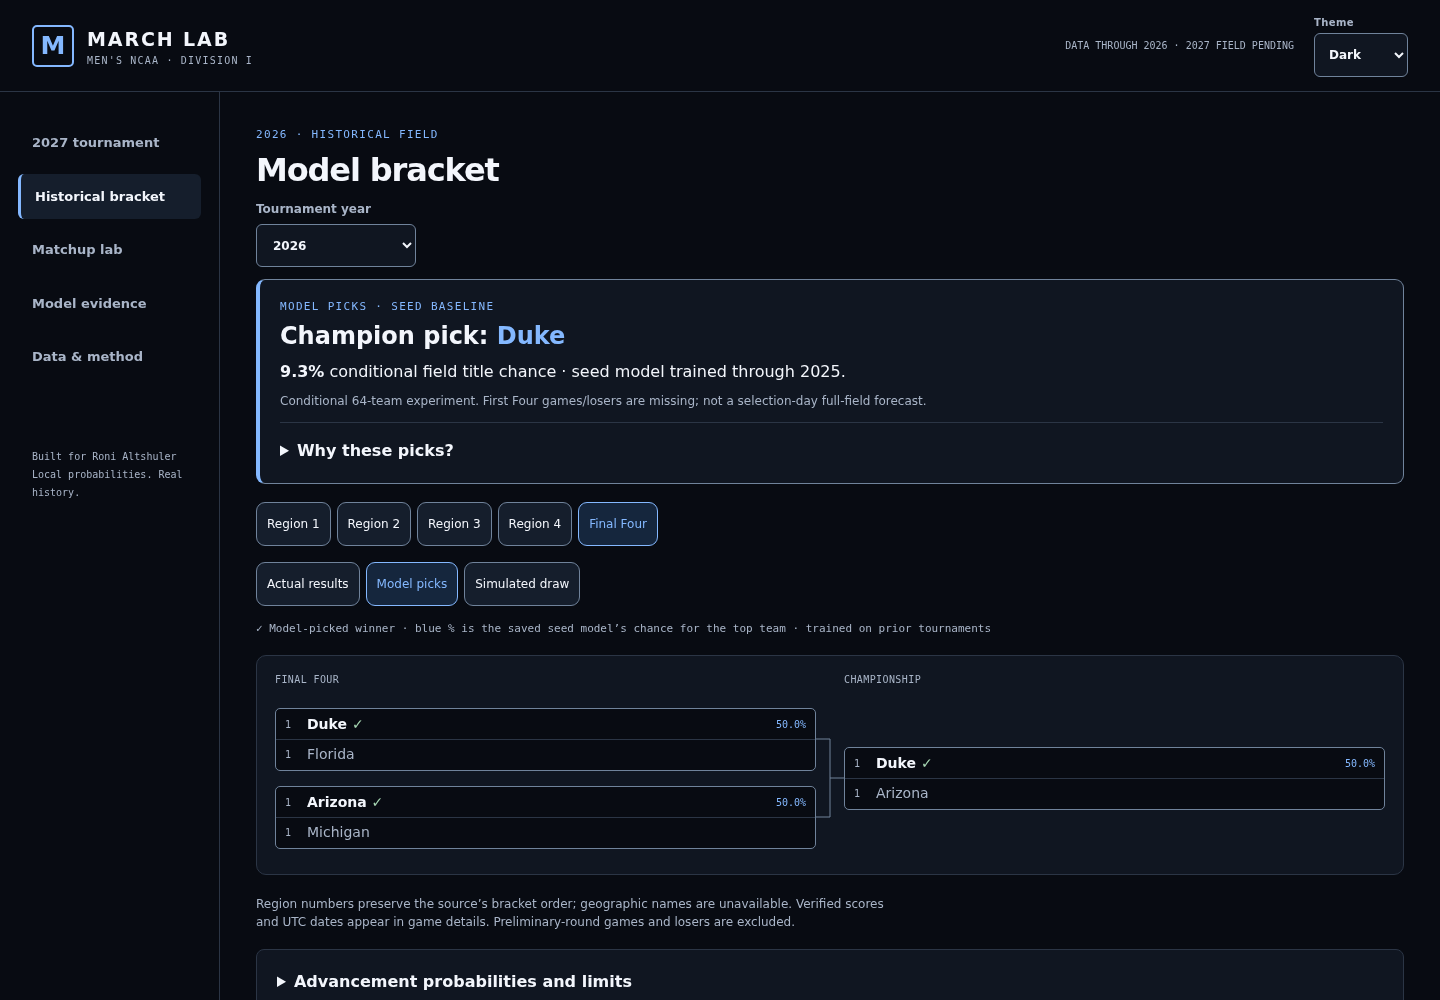
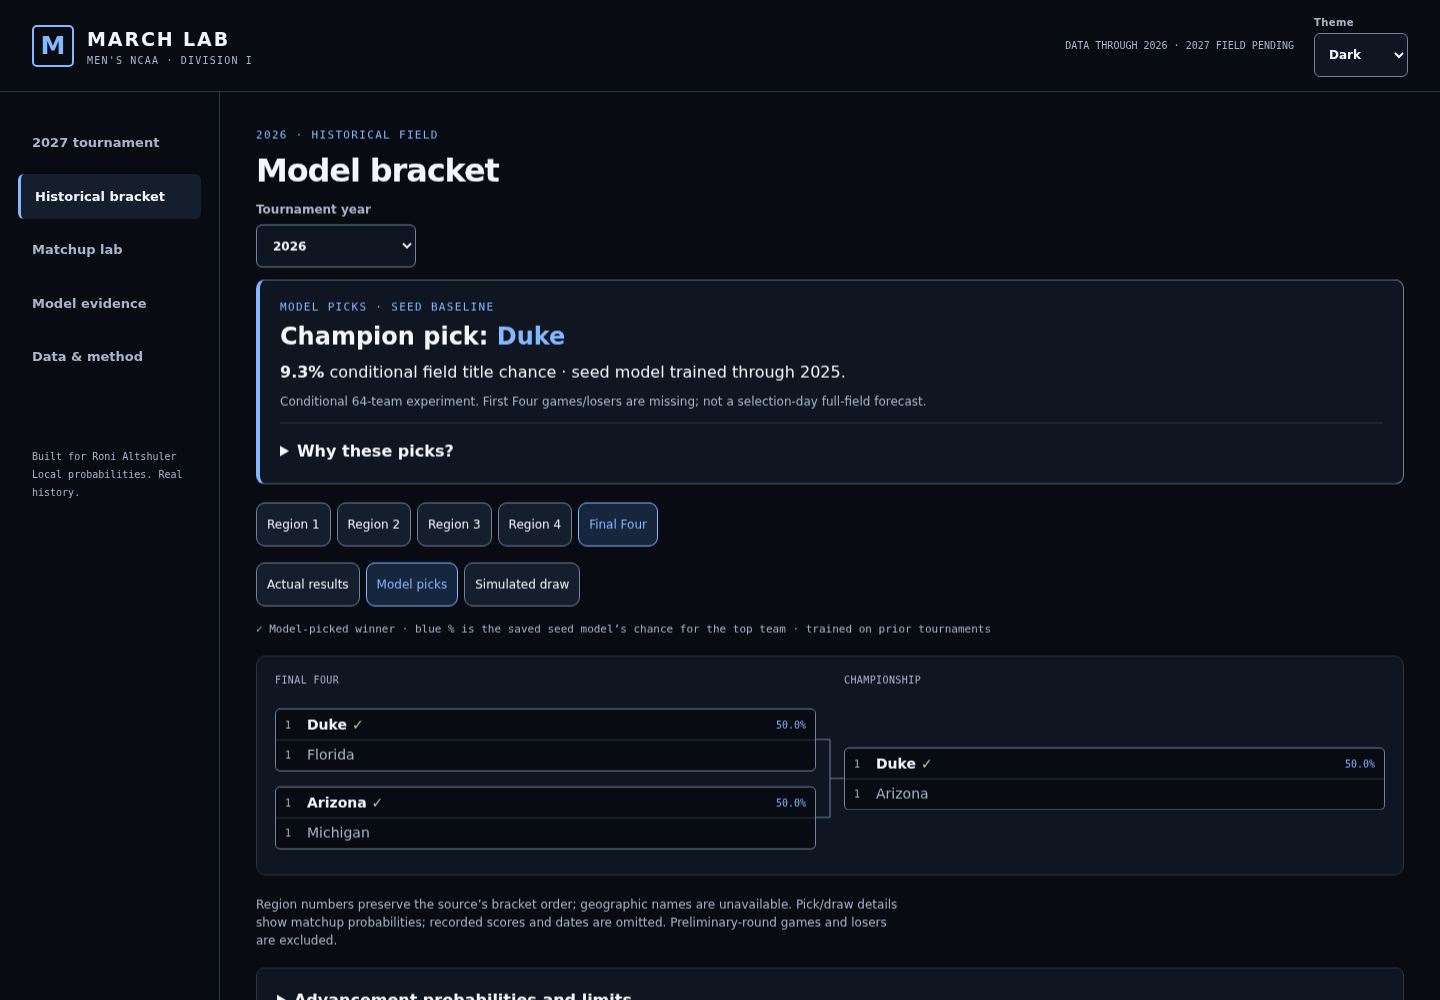
Keep model, draw and observed bracket provenance explicit

diff --git a/web/app.js b/web/app.js
@@ -70,7 +70,7 @@ function drawImported(field,result,index=0,selectedView='recommend',target=$('#i
 function modelBracketSummary(result,teams,local=false){
   const rec=result.recommended,champion=teams.find(t=>t.id===rec.champion),name=champion?.name||rec.champion;
   const label=champion?.profile_id&&!local?`<a href="${esc(teamHref(champion.profile_id,{year,region,view:'recommend',round:archiveRound()}))}">${esc(name)}</a>`:esc(name);
-  return `<section class="model-bracket-summary" aria-label="Model bracket recommendation"><p class="eyebrow">MODEL PICKS · SEED BASELINE</p><h2>Champion pick: ${label}</h2><p><strong>${pct(rec.champion_probability)}</strong> ${local?'declared':'conditional'} field title chance · seed model trained through ${rec.trained_through??'—'}.</p><p class="note">${local?'Local scenario from your supplied field; announcement and input timestamp are not verified.':'Conditional 64-team experiment. First Four games/losers are missing; not a selection-day full-field forecast.'}</p><details><summary>Why these picks?</summary><p>${esc(rec.method)} This coherent favorites path does not optimize a scoring pool or claim a new accuracy result.</p><p class="note">Input: selection-time seeds only. Calibration through ${rec.calibration_through??'—'}. No form statistics, injuries, rosters or market prices are used. The percentage above integrates all possible paths, not the chance every picked game is correct.${local?` Current model artifact as of ${esc(summary.models.as_of)}; earlier imported years remain current-model scenarios.`:''}</p>${local?'':`<a href="#evidence?year=${year}">Read the existing model evidence →</a>`}</details></section>`;
+  return `<section class="model-bracket-summary" aria-label="Model bracket recommendation"><p class="eyebrow">MODEL PICKS · SEED BASELINE</p><h2>Champion pick: ${label}</h2><p><strong>${pct(rec.champion_probability)}</strong> ${local?'declared':'conditional'} field title chance · seed model trained through ${rec.trained_through??'—'}.</p><p class="note">${local?'Local scenario from your supplied field; announcement and input timestamp are not verified.':'Conditional 64-team experiment. First Four games/losers are missing; not a selection-day full-field forecast.'}</p><details><summary>Why these picks?</summary><p>${esc(rec.method)} This coherent favorites path does not optimize a scoring pool or claim a new accuracy result.</p><p class="note">${local?'Input: supplied seeds; their as-of timestamps are unverified.':'Input: selection-time seeds only.'} Calibration through ${rec.calibration_through??'—'}. No form statistics, injuries, rosters or market prices are used. The percentage above integrates all possible paths, not the chance every picked game is correct.${local?` Current model artifact as of ${esc(summary.models.as_of)}; earlier imported years remain current-model scenarios.`:''}</p>${local?'':`<a href="#evidence?year=${year}">Read the existing model evidence →</a>`}</details></section>`;
 }
 function syncArchiveRoute(game=null){history.replaceState(null,'',archiveHref({year,region,view,game,round:archiveRound()}));}
 async function archive({focusGame=null,focusControl=null}={}){
@@ -122,8 +122,8 @@ $('#season-content').innerHTML=`${view==='recommend'?modelBracketSummary(simulat
 <div class="segmented" role="group" aria-label="Bracket region">${[0,1,2,3,4].map(r=>`<button data-region="${r}" aria-pressed="${r===region}">${r===4?'Final Four':`Region ${r+1}`}</button>`).join('')}</div>
 ${simulation?`<div class="segmented" role="group" aria-label="Actual or simulated results"><button data-view="actual" aria-pressed="${view==='actual'}">Actual results</button><button data-view="recommend" aria-pressed="${view==='recommend'}">Model picks</button><button data-view="sample" aria-pressed="${view==='sample'}">Simulated draw</button></div>`:''}
 <p class="bracket-key">${view==='actual'?'✓ Actual winner · blue % is the historical model’s chance for the top team':view==='recommend'?'✓ Model-picked winner · blue % is the saved seed model’s chance for the top team':'✓ Winner in one simulated draw · probabilities use the historical model'} · ${season.model?'trained on prior tournaments':'probabilities unavailable during 1985–1994 warm-up'}</p><label class="mobile-round" for="mobile-round">Round<select id="mobile-round">${groups.map((g,i)=>`<option value="${i}" ${i===archiveRound()-(region===4?5:1)?'selected':''}>${esc(g.round_name)}</option>`).join('')}</select></label>${bracketMarkup(groups,region===4?2:8,season.teams,archiveRound()-(region===4?5:1))}
-<p class="note">Region numbers preserve the source’s bracket order; geographic names are unavailable. ${season.games.some(g=>g.score_a!=null)?'Verified scores and UTC dates appear in game details.':'Scores and dates are missing for this era.'} Preliminary-round games and losers are excluded.${year===2021?' Oregon–VCU was a no-contest; the advancement is shown and excluded from model fitting.':''}</p>
-${simulation?`${view==='recommend'?'<details class="panel"><summary>Advancement probabilities and limits</summary>':'<section class="panel">'}<h2>Advancement probabilities · ${year}</h2><p class="note">Exact probabilities across all possible main-bracket paths. Conditional on the 64 main-bracket participants; this is a historical experiment. ${view==='sample'?'The draw above is one sample.':'The bracket above shows recorded actual results.'}</p>${oddsTable(simulation.odds)}<p class="note">${esc(simulation.caveat)}</p>${view==='recommend'?'</details>':'</section>'}`:''}
+<p class="note">Region numbers preserve the source’s bracket order; geographic names are unavailable. ${view==='actual'?(season.games.some(g=>g.score_a!=null)?'Verified scores and UTC dates appear in game details.':'Scores and dates are missing for this era.'):'Pick/draw details show matchup probabilities; recorded scores and dates are omitted.'} Preliminary-round games and losers are excluded.${year===2021&&view==='actual'?' Oregon–VCU was a no-contest; the advancement is shown and excluded from model fitting.':''}</p>
+${simulation?`${view==='recommend'?'<details id="advancement-panel" class="panel"><summary>Advancement probabilities and limits</summary>':'<section id="advancement-panel" class="panel">'}<h2>Advancement probabilities · ${year}</h2><p class="note">Exact probabilities across all possible main-bracket paths. Conditional on the 64 main-bracket participants; this is a historical experiment. ${view==='recommend'?'The bracket above shows deterministic seed-baseline picks. First Four games/losers are not bundled; these picks use seeds only, without roster updates, injuries or current form information.':view==='sample'?'The bracket above is one sampled random draw.':'The bracket above shows recorded actual results.'}</p>${oddsTable(simulation.odds)}<p class="note">${esc(simulation.caveat)}</p>${view==='recommend'?'</details>':'</section>'}`:''}
 <details><summary>Archive coverage and missing years</summary><p class="note">41 main brackets, 1985–2026. The 2020 tournament was cancelled. The 1939–1984 archive has not been ingested. Earlier history and modern feature coverage are separate.</p><div class="year-grid">${summary.years.map(y=>`<button data-year="${y}" aria-label="Open ${y} tournament">${y}</button>`).join('')}</div></details>`;
 document.querySelectorAll('[data-region]').forEach(b=>b.onclick=()=>{region=+b.dataset.region;syncArchiveRoute();drawArchive(`[data-region="${region}"]`);});document.querySelectorAll('[data-view]').forEach(b=>b.onclick=()=>{++bracketViewVersion;view=b.dataset.view;syncArchiveRoute();drawArchive(`[data-view="${view}"]`);});document.querySelectorAll('[data-year]').forEach(b=>b.onclick=()=>{year=+b.dataset.year;region=0;simulation=simulations.get(year)||null;view='actual';syncArchiveRoute();archive({focusControl:'#archive-year'});});
 $('#mobile-round').addEventListener('change',e=>{selectArchiveRound(Number(e.target.value)+(region===4?5:1));syncArchiveRoute();});

diff --git a/tests/model_bracket_browser.py b/tests/model_bracket_browser.py
@@ -23,6 +23,34 @@ def assert_model_brackets(browser,shots,base,static):
         expect(summary).to_contain_text('First Four games/losers are missing')
         assert not summary.locator('details').evaluate('(e)=>e.open')
         diagnostic=page.locator('#season-content > details.panel');assert not diagnostic.evaluate('(e)=>e.open')
+        panel_labels=[]
+        expected_labels={
+            'recommend':'The bracket above shows deterministic seed-baseline picks.',
+            'sample':'The bracket above is one sampled random draw.',
+            'actual':'The bracket above shows recorded actual results.',
+        }
+        for panel_mode,expected in expected_labels.items():
+            control=page.locator(f'[data-view="{panel_mode}"]');control.focus();page.keyboard.press('Enter')
+            panel=page.locator('#advancement-panel')
+            if panel_mode=='recommend':
+                panel.locator('summary').focus();page.keyboard.press('Enter')
+                assert panel.evaluate('(element)=>element.open')
+            note=panel.locator('p.note').first;expect(note).to_be_visible()
+            expect(note).to_contain_text(expected)
+            expect(note).to_contain_text('Conditional on the 64 main-bracket participants')
+            if panel_mode=='recommend':
+                expect(note).not_to_contain_text('recorded actual results')
+                expect(note).to_contain_text('First Four games/losers are not bundled')
+                expect(note).to_contain_text('seeds only, without roster updates, injuries or current form information')
+                panel.evaluate('(element)=>element.scrollIntoView({block:"start"})')
+                page.screenshot(path=str(shots/f'model-bracket-panel-{viewport}.png'))
+            archive_note=page.locator('#season-content > p.note').first
+            if panel_mode=='actual':expect(archive_note).to_contain_text('Verified scores and UTC dates appear in game details.')
+            else:
+                expect(archive_note).to_contain_text('recorded scores and dates are omitted')
+                expect(archive_note).not_to_contain_text('Verified scores and UTC dates appear')
+            panel_labels.append(dict(mode=panel_mode,text=note.inner_text(),archive_note=archive_note.inner_text()))
+        page.locator('[data-view="recommend"]').click()
         count=0
         for region in range(5):
             button=page.locator(f'[data-region="{region}"]');button.focus();page.keyboard.press('Enter')
@@ -64,8 +92,15 @@ def assert_model_brackets(browser,shots,base,static):
         expect(page.locator('#fill-bracket')).to_be_disabled();expect(summary).to_have_count(0)
         assert page.locator('.game-prob').all_text_contents()==['—']*15
         expect(page.locator('#bracket-status')).to_contain_text('no prior-trained snapshot')
+        page.select_option('#archive-year','2021');expect(page.locator('.game')).to_have_count(15)
+        page.locator('#fill-bracket').click();expect(page.locator('[data-view="recommend"]')).to_have_attribute('aria-pressed','true',timeout=15000)
+        for historical_mode in ['recommend','sample','actual']:
+            page.locator(f'[data-view="{historical_mode}"]').click()
+            footer=page.locator('#season-content > p.note').first
+            if historical_mode=='actual':expect(footer).to_contain_text('Oregon–VCU was a no-contest')
+            else:expect(footer).not_to_contain_text('the advancement is shown')
         assert not errors,errors
-        report.append(dict(viewport=viewport,case='63 coherent main-bracket picks, prior snapshot, collapsed details, actual/random distinction, profile/history/reload, themes and missing model',champion='Duke',probability='9.3%',trained_through=2025,page_errors=errors));context.close()
+        report.append(dict(viewport=viewport,case='63 coherent main-bracket picks, prior snapshot, collapsed details, actual/random distinction, profile/history/reload, themes and missing model',champion='Duke',probability='9.3%',trained_through=2025,advancement_panel_modes=panel_labels,page_errors=errors));context.close()
 
         # Keep latest region/round focus during model completion and reject old-year work.
         for leave in [False,True]:
@@ -131,6 +166,9 @@ def assert_model_brackets(browser,shots,base,static):
         upload(field);expect(page.locator('#import-status')).to_have_text('Validated 68 teams and 67 games.')
         imported=page.locator('#import-result');expect(imported).to_contain_text('Local field scenario')
         expect(imported).to_contain_text('trained through 2026');expect(imported).to_contain_text('timestamp are not verified')
+        rationale=imported.locator('.model-bracket-summary details');rationale.locator('summary').click()
+        expect(rationale).to_contain_text('Input: supplied seeds; their as-of timestamps are unverified.')
+        expect(rationale).not_to_contain_text('Input: selection-time seeds only.')
         opening=imported.get_by_text('Opening / First Four picks · 4 games',exact=True);opening.click()
         expect(imported.locator('[data-opening-game]')).to_have_count(4)
         assert imported.locator('.bracket').get_by_text('Test only opening',exact=False).count()==0

diff --git a/docs/VERIFICATION.md b/docs/VERIFICATION.md
@@ -713,3 +713,43 @@ provider/access/visibility settings and workflow definitions are unchanged.
 The draft is for independent review before merge; no production job is manually
 dispatched. Hosted Chromium has previously been blocked by this environment's
 proxy; production static QA uses the actual exported app at the Pages subpath.
+
+
+### Independent-review follow-up: mode and input provenance
+
+Reviewed head `e462990dfb1ac867fb489441db3a7a753a8af9de` had a visible
+advancement-panel copy error: its deterministic model-picks view said the bracket
+above showed recorded actual results. A read-only static-browser reproduction
+opened the collapsed panel and captured that false claim.
+
+[Before panel](screenshots/model-bracket-panel-before-desktop.png) ·
+[before report](screenshots/model-bracket-panel-before-report.json).
+
+The panel now describes deterministic seed-baseline picks, one sampled random
+draw or recorded actual results according to the active mode. Recommendation
+copy retains the conditional 64-participant experiment, missing First Four
+records and seed-only inputs without roster/injury/current-form information.
+It makes no validated full-field selection-day forecast claim.
+
+The archive footer describes verified scores/dates only in observed mode; pick
+and draw details explicitly omit those recorded values. The 2021 observed
+no-contest advancement sentence is likewise limited to actual results. Local
+import rationale describes supplied seeds with unverified as-of timestamps,
+instead of claiming a selection-time input. The current-model scenario and
+training/artifact horizons remain explicit.
+
+Browser regressions open the recommendation panel with keyboard input and check
+visible text in all three modes, at desktop/mobile sizes in API/static modes:
+twelve panel-label checks plus matching score/date footers. The 2021 footer is
+checked in all three views; imported rationale is checked for supplied,
+unverified seeds. [API report](screenshots/model-bracket-api-report.json) ·
+[static report](screenshots/model-bracket-static-report.json) ·
+[after desktop panel](screenshots/model-bracket-panel-desktop.png) ·
+[after mobile panel](screenshots/model-bracket-panel-mobile.png).
+
+66 Python tests, all seven syntax checks, export, whitespace checks and full
+actual Chromium API/static suites pass again, with zero page errors. This
+follow-up changes copy, a panel test ID and regression/evidence files. The
+algorithms, prior-year provenance, data/model files and exact request-ownership
+guards are unchanged. The same draft PR awaits independent review; no merge,
+training or production workflow dispatch was performed.
